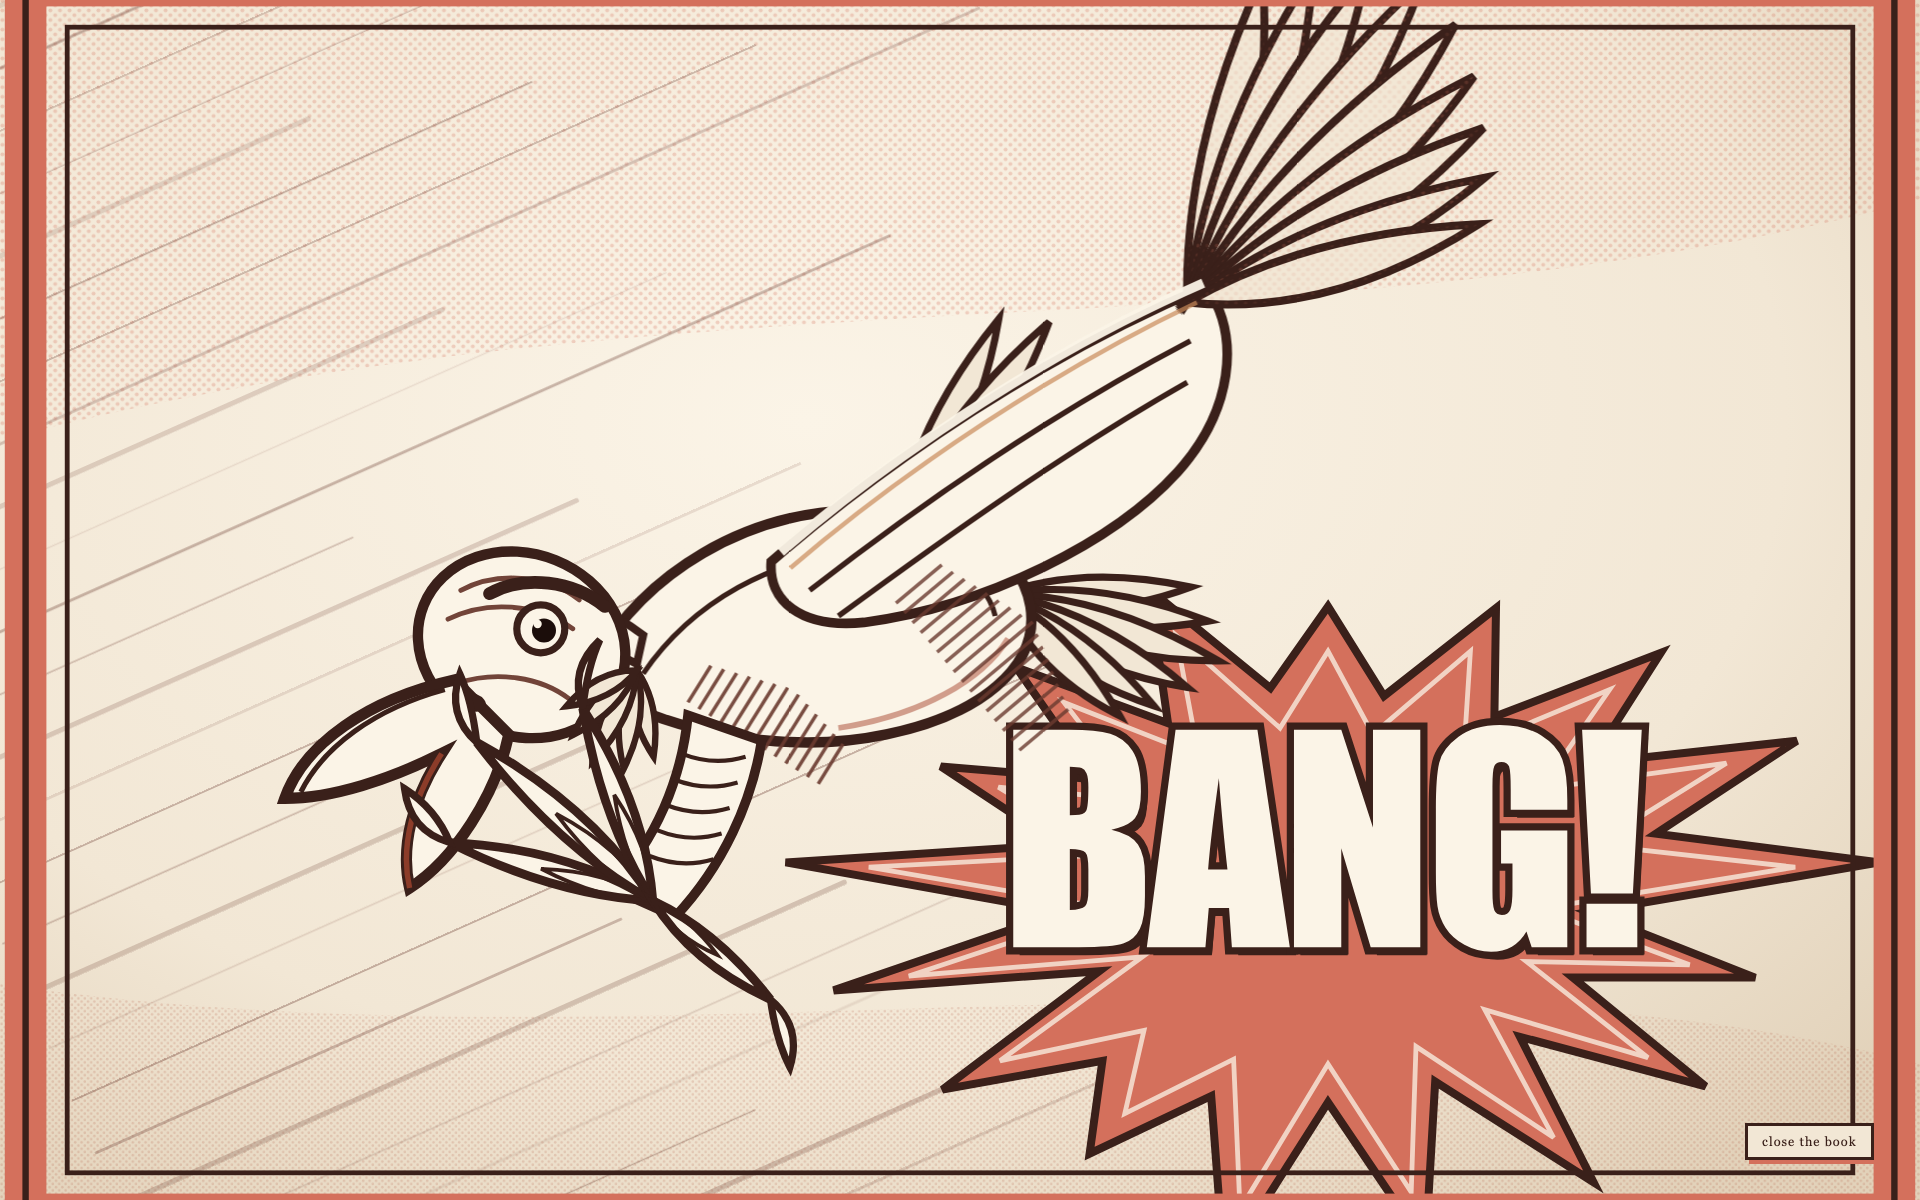
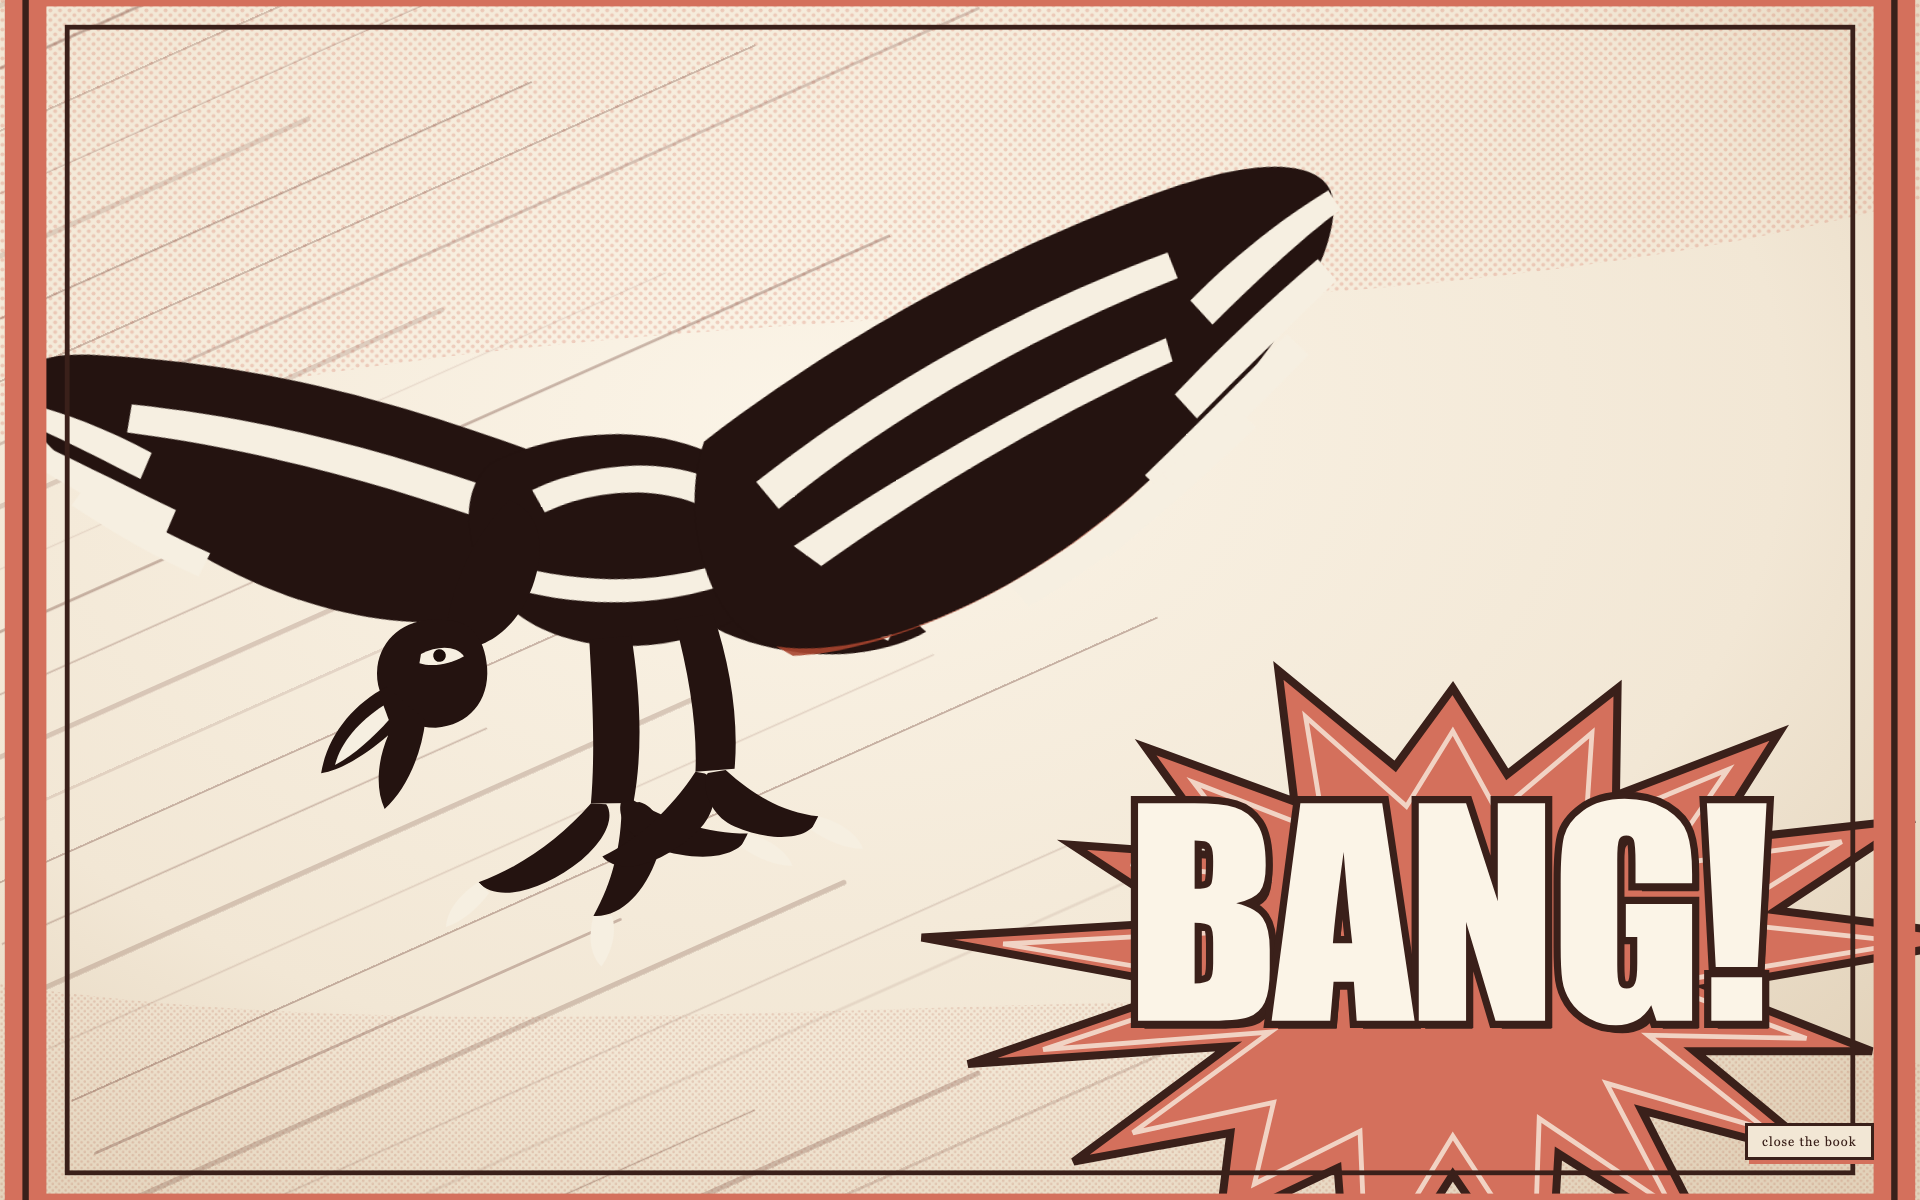
feat: redraw the bird in spot blacks at real griffon proportions
Two changes, both of which were the actual problem.

First, spot blacks instead of outlines. Every earlier attempt outlined light
fills, which is coloring-book grammar and reads as a cartoon no matter how
much detail goes in. The bird is now one heavy mass with cream cut back out
of it: feather separations, the beak's edge, a slit of an eye. No outline
anywhere on the creature.

Second, proportions checked against a public-domain photograph of a griffon
vulture braking to land, because four freehand attempts got the same things
wrong every time. The wings are broad paddles about 40% as deep as their
span rather than daggers, the body is a compact barrel roughly a sixth of
the span rather than a rod, the head is small and tucked low on a curved
neck, and the primaries only splay into fingers in the outer third. The
drawing is original; only the proportions came off the reference.

Changed region(s): [[0.0, 0.0, 1.0, 1.0]]

diff --git a/guhub/src/pages/RaptorPanel.tsx b/guhub/src/pages/RaptorPanel.tsx
@@ -7,8 +7,9 @@
  * rather than the fill of the bird, which is why the paper is warm cream and
  * every line is a warm brown-rose instead of black.
  *
- * Drawn as ink linework, not as metal: contour plus hatching is what manga
- * actually does, and it is the one drawing idiom SVG is genuinely good at.
+ * The bird itself is built from spot blacks: one heavy mass with cream cut
+ * back out of it. Uniform outlines around light fills is coloring-book
+ * grammar, and it is what made every earlier attempt read as a cartoon.
  */
 
 const C = {
@@ -40,48 +41,6 @@ function burst(cx: number, cy: number, spikes: number, r1: number, r2: number) {
     pts.push(`${(cx + Math.cos(a) * r * 1.5).toFixed(0)},${(cy + Math.sin(a) * r).toFixed(0)}`);
   }
   return pts.join(" ");
-}
-
-/** a run of parallel hatch strokes filling a wedge */
-function hatch(x: number, y: number, n: number, step: number, len: number, ang: number) {
-  const a = (ang * Math.PI) / 180;
-  return Array.from({ length: n }, (_, i) => {
-    const ox = x + i * step * Math.cos(a + Math.PI / 2);
-    const oy = y + i * step * Math.sin(a + Math.PI / 2);
-    const l = len * (1 - Math.abs(i - n / 2) / (n * 1.4));
-    return `M${ox.toFixed(1)},${oy.toFixed(1)} l${(Math.cos(a) * l).toFixed(1)},${(Math.sin(a) * l).toFixed(1)}`;
-  });
-}
-
-
-/** one quill: a long tapered leaf from an origin, bent by `curve` */
-function plume(x: number, y: number, deg: number, len: number, wid: number, curve: number) {
-  const a = (deg * Math.PI) / 180;
-  const tx = x + Math.cos(a) * len;
-  const ty = y + Math.sin(a) * len;
-  const nx = -Math.sin(a), ny = Math.cos(a);
-  const bx = x + Math.cos(a) * len * 0.45, by = y + Math.sin(a) * len * 0.45;
-  const c1x = bx + nx * wid * curve, c1y = by + ny * wid * curve;
-  const c2x = bx - nx * wid * 0.72, c2y = by - ny * wid * 0.72;
-  return `M${x.toFixed(1)},${y.toFixed(1)} Q${c1x.toFixed(1)},${c1y.toFixed(1)} ${tx.toFixed(1)},${ty.toFixed(1)} Q${c2x.toFixed(1)},${c2y.toFixed(1)} ${x.toFixed(1)},${y.toFixed(1)} Z`;
-}
-
-/** a run of quills fanning from one hand point, longest in the middle */
-function plumes(x: number, y: number, deg: number, n: number, wid: number, len: number, spread: number, curve: number) {
-  return Array.from({ length: n }, (_, i) => {
-    const t = n === 1 ? 0.5 : i / (n - 1);
-    const a = deg + (t - 0.5) * spread;
-    const l = len * (1 - Math.abs(t - 0.4) * 0.42);
-    return plume(x, y, a, l, wid * (1 - Math.abs(t - 0.4) * 0.3), curve);
-  });
-}
-
-/** the hook on the end of a toe */
-function talon(x: number, y: number, deg: number) {
-  const a = ((deg + 34) * Math.PI) / 180;
-  const tx = x + Math.cos(a) * 44, ty = y + Math.sin(a) * 44;
-  const mx = x + Math.cos((deg * Math.PI) / 180) * 26, my = y + Math.sin((deg * Math.PI) / 180) * 26;
-  return `M${x.toFixed(1)},${y.toFixed(1)} Q${mx.toFixed(1)},${my.toFixed(1)} ${tx.toFixed(1)},${ty.toFixed(1)} Q${(x + (tx - x) * 0.3).toFixed(1)},${(y + (ty - y) * 0.62).toFixed(1)} ${x.toFixed(1)},${y.toFixed(1)} Z`;
 }
 
 export default function RaptorPanel({ onClose }: { onClose: () => void }) {
@@ -130,135 +89,121 @@ export default function RaptorPanel({ onClose }: { onClose: () => void }) {
 
         {/* ── the burst and the lettering ── */}
         <g className="mBang">
-          <polygon points={burst(830, 585, 17, 210, 128)} fill={C.rose} stroke={C.ink} strokeWidth="5" />
-          <polygon points={burst(830, 585, 17, 178, 104)} fill="none" stroke={C.paperHi} strokeWidth="3" opacity="0.75" />
-          <text className="mBangText mBangShadow" x="830" y="622">BANG!</text>
-          <text className="mBangText mBangFace" x="826" y="617">BANG!</text>
+          <polygon points={burst(908, 632, 17, 206, 126)} fill={C.rose} stroke={C.ink} strokeWidth="5" />
+          <polygon points={burst(908, 632, 17, 174, 102)} fill="none" stroke={C.paperHi} strokeWidth="3" opacity="0.75" />
+          <text className="mBangText mBangShadow" x="908" y="668">BANG!</text>
+          <text className="mBangText mBangFace" x="904" y="663">BANG!</text>
         </g>
 
-        {/* ── the bird, diving left and down ──
-            The wing is an ARC OF OVERLAPPING FEATHERS, not a filled lozenge.
-            A single smooth shape reads as a shell or a shrimp; what says bird
-            is the row of separate quills each with its own outline. */}
-        <g className="mBird">
-          {/* far wing, behind the body, shorter and flatter */}
-          <g className="mWingFar">
-            {plumes(560, 356, -38, 6, 30, 176, 52, 0.9).map((d, i) => (
-              <path key={i} d={d} fill={C.paper} stroke={C.ink} strokeWidth="4.5" />
-            ))}
-            <path d="M520,360 C572,330 632,306 692,296 C664,332 610,362 556,376 C534,382 522,374 520,360 Z"
-              fill={C.paper} stroke={C.ink} strokeWidth="5" />
+        {/* ── the bird ──
+            Proportions taken off a real griffon vulture braking to land,
+            because four freehand attempts all got the same things wrong.
+            What matters, and what I had wrong every time:
+              - the wings are BROAD paddles, depth about 40% of their span,
+                not daggers. The leading edge is nearly straight and the
+                trailing edge is one big curve.
+              - the body is a compact barrel, roughly a sixth of the span.
+                Mine was a long rod, which is why it read as an insect.
+              - the head is SMALL and sits low on a curved neck, tucked down
+                and forward.
+              - the primaries only splay into fingers in the outer third.
+            Rendered as spot blacks with cream cut back out: no outlines
+            anywhere on the creature. */}
+        <g className="mBird" transform="translate(-118,-104) rotate(-9 520 470) scale(0.94)">
+          {/* far wing: broad, slightly foreshortened, behind the body */}
+          <path
+            className="mMass"
+            d="M486,424 C420,388 330,342 214,318 C168,308 150,322 158,344
+               C170,378 214,424 274,470 C336,516 410,540 470,528
+               C500,522 506,470 486,424 Z"
+          />
+          {/* its finger slots, outer third only */}
+          <g className="mCut">
+            <path d="M158,340 C186,352 214,368 240,388 L230,404 C200,382 172,362 152,350 Z" />
+            <path d="M170,372 C196,390 224,410 250,428 L240,444 C210,424 182,402 162,384 Z" />
+            <path d="M192,404 C216,424 244,444 268,460 L258,474 C230,456 204,434 182,414 Z" />
+          </g>
+          {/* one covert slash following the wing's curve */}
+          <g className="mCut">
+            <path d="M470,452 C400,414 322,378 232,354 L226,372 C314,398 392,434 462,472 Z" />
           </g>
 
-          {/* tail, trailing behind the body */}
-          <g className="mTail">
-            {plumes(626, 396, 22, 6, 26, 142, 48, 0.95).map((d, i) => (
-              <path key={i} d={d} fill={C.paper} stroke={C.ink} strokeWidth="4.5" />
-            ))}
+          {/* tail: short and square, mostly tucked behind the body */}
+          <path className="mMass" d="M596,506 C650,520 700,548 730,586 C692,600 640,592 598,566 C574,550 574,520 596,506 Z" />
+          <g className="mCut">
+            <path d="M614,528 C654,540 690,558 712,578 L704,588 C680,570 644,552 606,540 Z" />
           </g>
 
-          {/* torso */}
-          <g className="mTorso">
-            <path
-              d="M372,438 C404,382 466,346 532,344 C596,342 638,368 644,404 C650,442 612,472 554,484 C488,498 416,480 382,460 C366,452 364,446 372,438 Z"
-              fill={C.paperHi}
-              stroke={C.ink}
-              strokeWidth="6.5"
-            />
-            <path d="M402,446 C432,402 484,372 540,370 C584,368 616,384 622,410" fill="none" stroke={C.ink} strokeWidth="3.2" />
-            <g stroke={C.inkSoft} strokeWidth="2.2" fill="none" opacity="0.9">
-              {hatch(430, 464, 13, 8, 42, -58).map((d, i) => <path key={i} d={d} />)}
-            </g>
-            <path d="M524,480 C576,472 614,450 630,424" fill="none" stroke={C.roseDeep} strokeWidth="3.6" opacity="0.5" />
+          {/* torso: a compact barrel, deep and short */}
+          <path
+            className="mMass"
+            d="M462,430 C520,412 590,424 626,462 C660,498 650,542 606,558
+               C556,576 490,564 460,528 C434,496 434,446 462,430 Z"
+          />
+          <g className="mCut">
+            <path d="M486,452 C534,438 588,446 616,472 L604,486 C578,464 532,456 492,468 Z" />
+            <path d="M472,502 C514,520 566,528 612,518 L614,532 C562,544 506,534 466,516 Z" />
           </g>
 
-          {/* near wing: nine quills sweeping up and back off the hand */}
-          <g className="mWingNear">
-            {/* the arm, narrow, so the quills carry the shape */}
-            <path
-              d="M482,376 C556,312 654,246 754,204 C776,236 770,282 736,320 C696,364 616,404 540,414 C500,418 480,400 482,376 Z"
-              fill={C.paperHi}
-              stroke={C.ink}
-              strokeWidth="6"
-            />
-            {plumes(742, 214, -46, 9, 38, 252, 62, 1.05).map((d, i) => (
-              <g key={i}>
-                <path d={d} fill={C.paper} stroke={C.ink} strokeWidth="5" />
-                <path d={d} fill="url(#benday)" opacity={i % 2 ? 0.42 : 0.22} />
-              </g>
-            ))}
-            {/* covert row cut into the arm */}
-            <g stroke={C.ink} strokeWidth="3.4" fill="none">
-              <path d="M506,394 C578,338 660,282 744,238" />
-              <path d="M524,410 C592,360 668,306 742,264" />
-            </g>
-            <g stroke={C.inkSoft} strokeWidth="2.2" fill="none" opacity="0.8">
-              {hatch(560, 402, 16, 8, 58, -40).map((d, i) => <path key={i} d={d} />)}
-            </g>
-            {/* the one bright edge */}
-            <path d="M488,370 C562,306 660,242 752,202" fill="none" stroke={C.paperHi} strokeWidth="6" opacity="0.95" />
-            <path d="M494,380 C566,318 660,256 748,214" fill="none" stroke={C.gold} strokeWidth="2.8" opacity="0.7" />
+          {/* the near wing: the broad paddle that fills the right of the page */}
+          <path
+            className="mMass"
+            d="M604,438 C688,392 800,346 926,322 C1006,306 1046,320 1042,348
+               C1036,392 976,452 892,510 C800,572 692,600 630,580
+               C588,566 578,486 604,438 Z"
+          />
+          {/* primaries: distinct fingers, outer third of the wing only */}
+          <g className="mCut">
+            <path d="M1040,338 C1006,352 970,372 938,396 L950,414 C986,388 1022,364 1046,352 Z" />
+            <path d="M1026,382 C990,404 952,430 918,456 L930,474 C968,446 1008,418 1036,398 Z" />
+            <path d="M998,428 C962,454 924,482 890,506 L902,522 C940,496 980,466 1010,444 Z" />
+            <path d="M956,470 C920,496 882,520 846,540 L858,556 C896,534 936,508 968,486 Z" />
+            <path d="M902,508 C866,530 828,550 790,564 L800,580 C842,564 882,542 914,522 Z" />
           </g>
+          {/* two covert rows cut across the arm, following the curve */}
+          <g className="mCut">
+            <path d="M634,470 C716,424 818,384 928,362 L932,380 C826,404 728,442 646,490 Z" />
+            <path d="M652,516 C734,478 826,442 918,418 L920,434 C834,458 748,492 668,532 Z" />
+          </g>
+          {/* one rose plane on the underside: the only colour on the bird */}
+          <path className="mShade" d="M630,580 C692,600 800,572 892,510 C812,566 706,596 640,588 Z" />
 
-          {/* head and beak, driven down at what it is coming for */}
+          {/* the neck, curving down and forward off the shoulder */}
+          <path className="mMass" d="M470,456 C440,478 420,510 412,546 C438,556 464,540 478,512 C490,488 488,466 470,456 Z" />
+
+          {/* the head: small, low, tucked. hooked beak driving down. */}
           <g className="mHead">
-            <path d="M398,440 C374,428 356,416 344,402 C362,398 384,408 402,422 Z" fill={C.paperHi} stroke={C.ink} strokeWidth="5" />
-            <ellipse cx="326" cy="428" rx="66" ry="57" fill={C.paperHi} stroke={C.ink} strokeWidth="6.5" transform="rotate(22 326 428)" />
-            {/* bare skin, drawn as folds rather than as whiskers */}
-            <g stroke={C.inkSoft} strokeWidth="3" fill="none" opacity="0.95" strokeLinecap="round">
-              <path d="M288,394 C310,382 342,384 362,400" />
-              <path d="M280,412 C304,400 336,402 358,418" />
-              <path d="M286,452 C310,444 338,448 356,462" />
+            <path className="mMass" d="M414,528 C392,522 372,532 366,552 C360,574 374,594 398,598 C420,600 436,586 438,564 C440,542 430,530 414,528 Z" />
+            {/* the beak: heavy, hooked, the sharpest thing on the page */}
+            <path className="mMass" d="M370,566 C346,574 326,592 318,616 C332,616 350,608 366,598 C356,614 352,632 356,646 C372,636 386,614 392,592 Z" />
+            <g className="mCut">
+              <path d="M366,578 C348,586 334,598 328,612 C340,608 356,598 368,588 Z" />
             </g>
-            {/* the beak: the sharpest drawing on the page */}
-            <path
-              d="M284,450 C230,462 190,490 178,524 C208,524 244,512 276,496 C258,524 250,554 256,580 C284,562 310,522 318,484 Z"
-              fill={C.paperHi}
-              stroke={C.ink}
-              strokeWidth="7"
-            />
-            <path d="M278,456 C234,468 202,492 188,520" fill="none" stroke={C.ink} strokeWidth="3.2" />
-            <path d="M276,496 C258,524 250,554 256,580" fill="none" stroke={C.roseDeep} strokeWidth="3.4" opacity="0.75" />
-            <ellipse cx="296" cy="464" rx="8" ry="5.5" fill={C.ink} transform="rotate(20 296 464)" />
-            {/* the eye: small, hard, the only near-black on the page */}
-            <circle cx="338" cy="418" r="15" fill={C.paperHi} stroke={C.ink} strokeWidth="4.5" />
-            <circle cx="340" cy="419" r="7.5" fill="#1b0d0a" />
-            <circle cx="336" cy="415" r="2.6" fill={C.paperHi} />
-            {/* the brow is what makes it look like it means it */}
-            <path d="M306,396 C328,384 358,388 378,404" fill="none" stroke={C.ink} strokeWidth="8" strokeLinecap="round" />
-            {/* ruff: short broad plumes, not hairs */}
-            {plumes(398, 444, 116, 5, 17, 66, 74, 0.85).map((d, i) => (
-              <path key={i} d={d} fill={C.paper} stroke={C.ink} strokeWidth="4" />
-            ))}
+            {/* the eye: a small hard cream slit, one bead, no highlight */}
+            <path className="mCut" d="M396,548 C408,544 420,546 424,554 C414,558 402,558 394,554 Z" />
+            <circle cx="408" cy="551" r="4.2" fill="#1b0d0a" />
           </g>
 
-          {/* the grip, thrown forward ahead of the dive */}
-          <g className="mGrip">
-            <path d="M430,472 C426,512 410,550 382,580 L422,598 C452,566 470,526 476,488 Z" fill={C.paperHi} stroke={C.ink} strokeWidth="6" />
-            <g stroke={C.ink} strokeWidth="2.6" fill="none">
-              {[0, 1, 2, 3, 4].map(i => (
-                <path key={i} d={`M${426 - i * 5},${496 + i * 16} q 20 8 40 2`} />
-              ))}
-            </g>
-            {/* three toes forward, one back, each a clean tapered shape */}
+          {/* the legs, dangling and reaching: this is the moment of arrival */}
+          <g className="mLeg">
+            <path className="mMass" d="M508,556 C504,596 500,632 492,664 L520,668 C532,634 536,596 536,558 Z" />
+            <path className="mMass" d="M566,552 C570,590 570,624 564,654 L590,656 C598,624 598,588 592,552 Z" />
+            {/* feet: toes splayed forward, talons hooked under */}
             {[
-              { a: 196, l: 132, w: 19 },
-              { a: 222, l: 148, w: 21 },
-              { a: 250, l: 128, w: 18 },
-              { a: 40, l: 96, w: 16 },
-            ].map((t, i) => (
-              <g key={i}>
-                <path d={plume(408, 588, t.a, t.l, t.w, 0.9)} fill={C.paperHi} stroke={C.ink} strokeWidth="5.5" />
-                <path d={plume(408, 588, t.a, t.l * 0.55, t.w * 0.6, 0.9)} fill="none" stroke={C.ink} strokeWidth="2.4" />
-                {/* the talon, hooked off the toe tip */}
-                <path
-                  d={talon(408 + Math.cos((t.a * Math.PI) / 180) * t.l, 588 + Math.sin((t.a * Math.PI) / 180) * t.l, t.a)}
-                  fill={C.paperHi}
-                  stroke={C.ink}
-                  strokeWidth="4.5"
-                />
-              </g>
+              "M492,664 C468,684 440,698 410,704 C420,720 452,716 480,700 C500,688 506,674 502,666 Z",
+              "M512,668 C508,694 498,718 482,738 C500,742 518,728 530,706 C540,688 534,672 524,668 Z",
+              "M520,666 C542,684 566,696 592,700 C586,716 556,714 530,700 C512,690 508,674 512,666 Z",
+              "M564,654 C544,676 520,692 494,700 C504,716 534,710 558,694 C576,682 578,662 570,656 Z",
+              "M584,656 C600,676 618,690 640,696 C634,712 606,708 584,694 C568,684 566,662 572,656 Z",
+            ].map((d, i) => (
+              <path key={i} className="mMass" d={d} />
             ))}
+            <g className="mCut">
+              <path d="M410,704 C396,710 386,720 384,730 C396,728 408,720 416,712 Z" />
+              <path d="M482,738 C476,752 476,764 482,772 C492,762 496,748 494,740 Z" />
+              <path d="M592,700 C606,706 616,716 618,726 C606,724 594,716 586,708 Z" />
+              <path d="M640,696 C654,702 664,712 666,722 C654,720 642,712 634,704 Z" />
+            </g>
           </g>
         </g>
 

diff --git a/guhub/src/pages/Noria.css b/guhub/src/pages/Noria.css
@@ -893,3 +893,11 @@
 @media (prefers-reduced-motion: reduce) {
   .mangaPage, .mBang, .mStreaks { animation: none; }
 }
+
+/* ── spot blacks ───────────────────────────────────────────────────────
+   The bird is a black mass; the drawing is what gets cut back out of it.
+   No outlines anywhere on the creature, because a uniform outline around a
+   light fill is what reads as cartoon. */
+.mMass { fill: #241310; }
+.mCut { fill: #f6efe1; }
+.mShade { fill: #a8452f; opacity: 0.9; }
